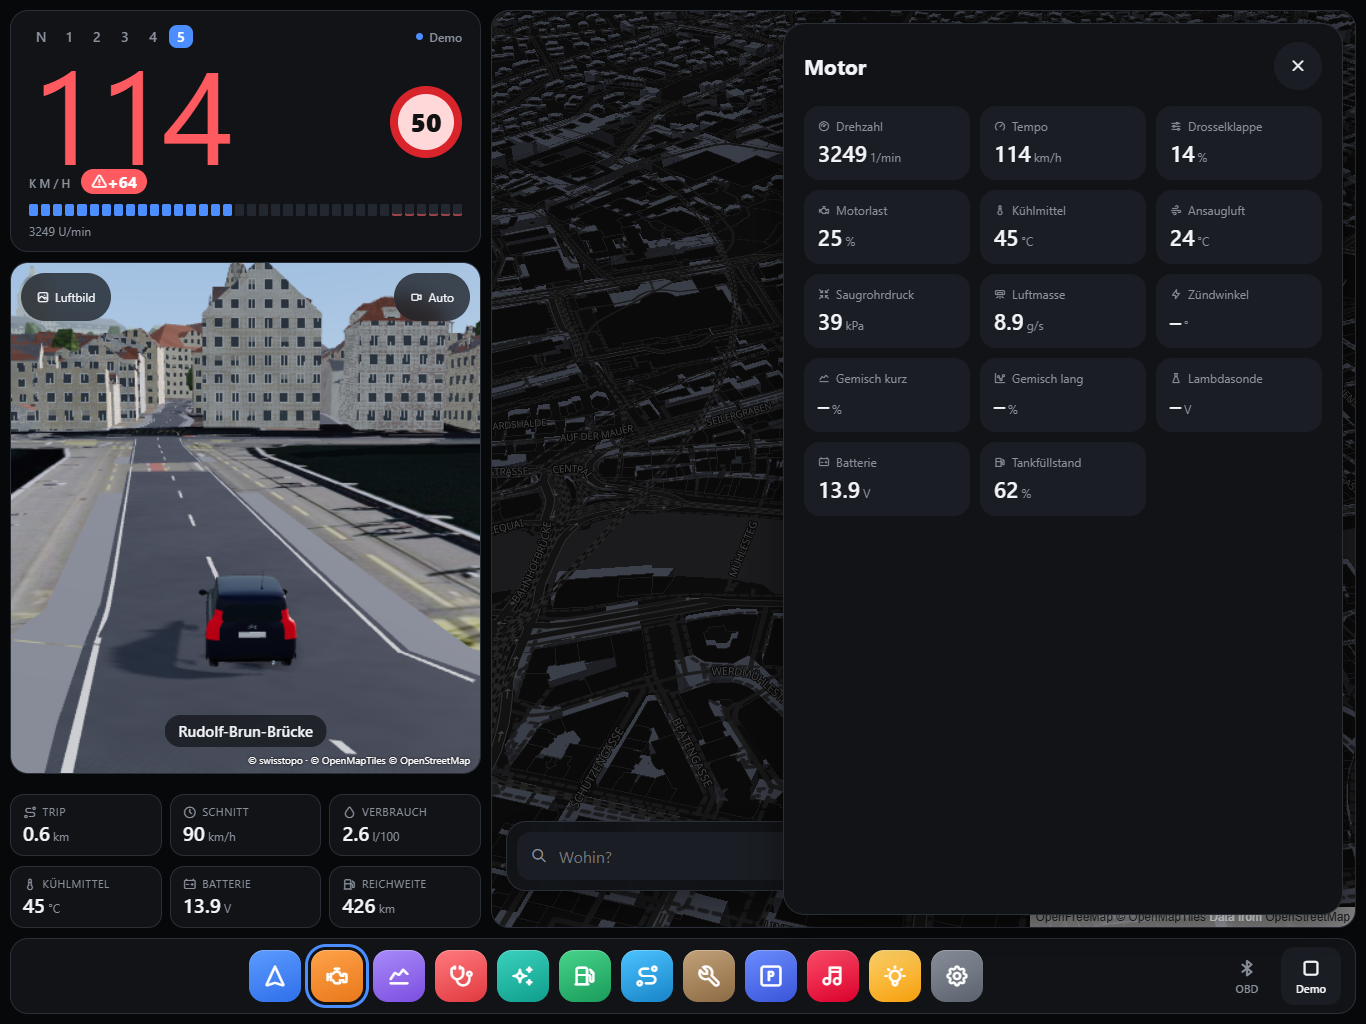
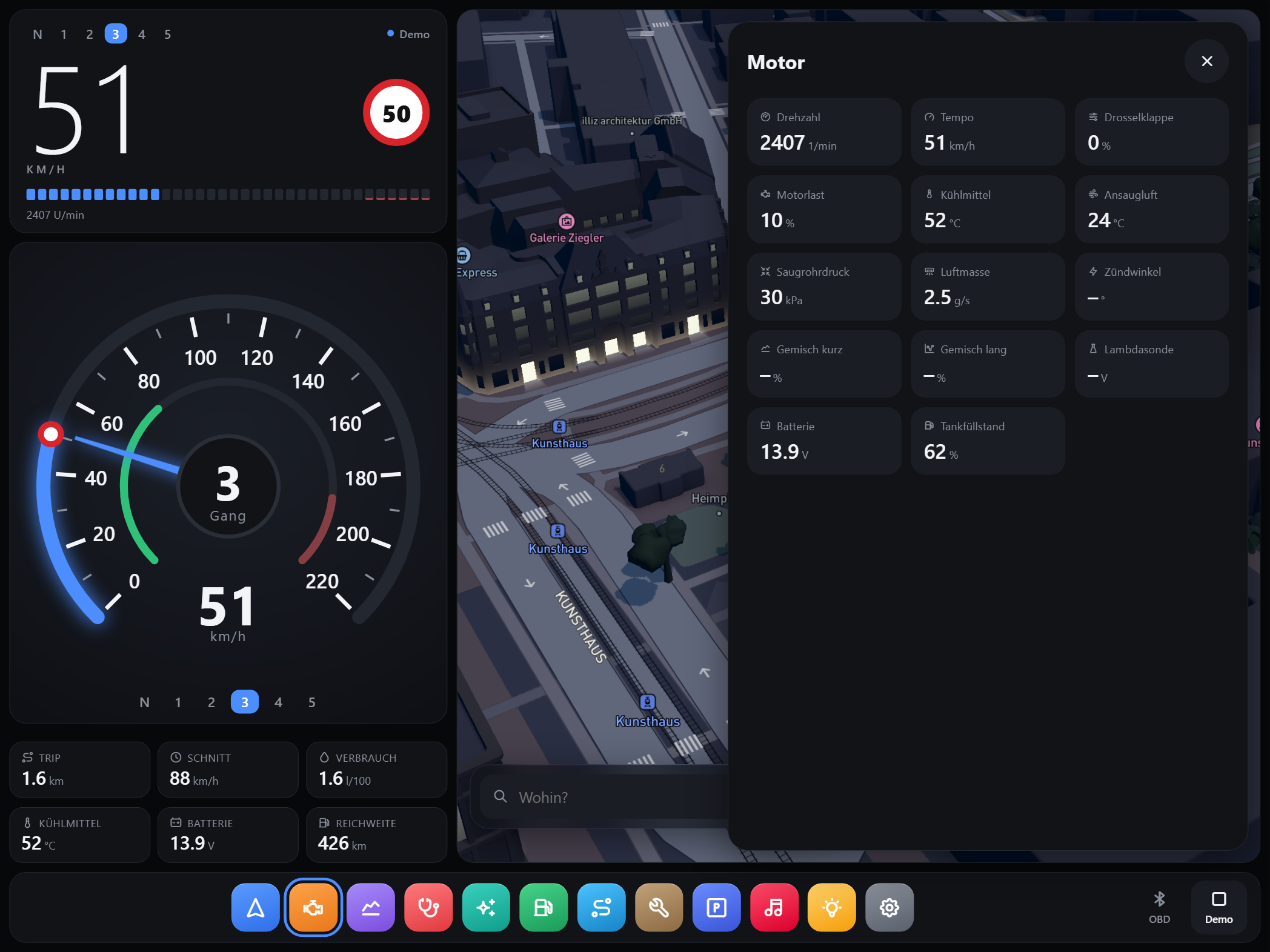
improvements

diff --git a/README.md b/README.md
@@ -11,7 +11,9 @@ Erstes Fahrzeug ist ein Citroën Xsara Picasso von 2005. Die App ist aber für
 jedes Fahrzeug mit OBD2 gebaut: Alles Fahrzeugspezifische steckt in einem
 `VehicleProfile`.
 
-![Cockpit in der Demo-Fahrt: Tempo, Gang, Tempolimit, 3D-Ansicht und Karte](docs/screenshots/cockpit.png)
+**Demo im Browser:** <https://weslleydesouza.github.io/app-CoDriveMate/?demo>
+
+![Cockpit in der Demo-Fahrt: Tempo, Gang, Tempolimit, 3D-Ansicht auf der Mapbox-Karte](docs/screenshots/cockpit.png)
 
 ## Was die App kann
 
@@ -22,7 +24,7 @@ jedes Fahrzeug mit OBD2 gebaut: Alles Fahrzeugspezifische steckt in einem
 | Warnungen | Kühlmittel, Ladespannung, Reichweite, Motorkontrollleuchte: als Karte und als Ansage |
 | Diagnose | Fehlercodes lesen und im Stand löschen, nur lesender Zugriff auf das Fahrzeug |
 | Navigation | Suche, Route, Führung mit Ansagen, Live-Verkehr, Karte und Route auch ohne Netz |
-| 3D-Ansicht | three.js-Modell des Autos in Gelände, Gebäuden und Bäumen von swisstopo |
+| 3D-Ansicht | three.js-Modell des Autos auf der 3D-Karte von Mapbox oder in Gelände, Gebäuden und Bäumen von swisstopo |
 | KI-Copilot | Fragen zum Auto mit Live-Daten, Sprache, Unterhaltungsmodus für die Fahrt |
 | Fahrtenbuch | Fahrten automatisch aufzeichnen, Eco-Punkte, Auswertung nach Tag, Woche, Monat |
 | Innenlicht | Szenen, Zonen, Farben und Effekte über ein ESP32-Modul, gedimmt beim Fahren |
@@ -30,8 +32,10 @@ jedes Fahrzeug mit OBD2 gebaut: Alles Fahrzeugspezifische steckt in einem
 
 | | |
 |---|---|
-| ![Warnung bei zu hoher Kühlmitteltemperatur](docs/screenshots/warning.png) | ![Motorwerte live](docs/screenshots/engine.png) |
-| Fahrzeugwarnung (`?demo&fault=cool`) | Motorwerte live |
+| ![KI-Copilot beantwortet eine Frage zum Motor](docs/screenshots/copilot.png) | ![KI erklärt einen Fehlercode](docs/screenshots/diagnosis-ai.png) |
+| KI-Copilot mit Live-Daten | KI erklärt einen Fehlercode (`?demo&fault=mil`) |
+| ![Warnung bei zu hoher Kühlmitteltemperatur](docs/screenshots/warning.png) | ![Motorwerte live mit rundem Tacho](docs/screenshots/engine.png) |
+| Fahrzeugwarnung (`?demo&fault=cool`) | Motorwerte live, links der runde Tacho |
 | ![Verlauf der Messwerte](docs/screenshots/chart.png) | ![Innenbeleuchtung](docs/screenshots/lighting.png) |
 | Verlauf | Innenbeleuchtung |
 

diff --git a/docs/produkt/portfolio.md b/docs/produkt/portfolio.md
@@ -21,7 +21,7 @@ ein Citroën Xsara Picasso, gebaut ist die App für jedes Fahrzeug.
 | **OBD2 über Bluetooth** | ELM327-Protokoll, serielle Befehle, adaptives Polling, automatisch neu verbinden mit Backoff |
 | **Diagnose** | Fehlercodes lesen und im Stand löschen; die KI erklärt typische Ursachen für das Modell |
 | **Navigation** | Suche mit Sprache, Route mit Live-Verkehr, Ansagen, Wetter entlang der Route, Karten und Routen offline, Route ohne Netz auf dem Gerät gerechnet |
-| **3D-Ansicht** | three.js-Auto in der echten Umgebung: Gelände, Gebäude und Bäume von swisstopo, Himmel nach Tageszeit, Schatten |
+| **3D-Ansicht** | three.js-Auto in der echten Umgebung: auf der 3D-Karte von Mapbox oder in Gelände, Gebäuden und Bäumen von swisstopo, Himmel nach Tageszeit, Schatten |
 | **Fahrtenbuch** | zeichnet automatisch auf, Eco-Score, Monate und Summen, CSV-Export, geplante Fahrten |
 | **Wartung** | Service-Intervalle, MFK, Vignette, Kilometer zählen über OBD mit |
 | **Tank** | Füllstand, Reichweite, Kosten, Tankstellen in der Nähe und auf der Route |
@@ -31,6 +31,10 @@ ein Citroën Xsara Picasso, gebaut ist die App für jedes Fahrzeug.
 | **Unterhaltung** | Begleiter, Fahrtipps, Eco-Coach, Plaudern, Fakten zu Orten an der Strecke (Wikipedia), Quiz |
 
 ![Motorwerte](../screenshots/engine.png)
+
+![KI-Copilot](../screenshots/copilot.png)
+
+![KI erklärt einen Fehlercode](../screenshots/diagnosis-ai.png)
 
 ## Highlight: Geplante Fahrten mit Thema
 
@@ -93,7 +97,6 @@ Schwimmen!»
   Mapbox und Google werden nicht gespeichert.
 
 ![Innenlicht](../screenshots/lighting.png)
-
 
 **Stack:** Angular 22 · TypeScript · Capacitor 8 · three.js · MapLibre / Mapbox ·
 OpenStreetMap / swisstopo · Bluetooth LE / ELM327 · ESP32 · IndexedDB · Vitest ·

diff --git a/docs/README.md b/docs/README.md
@@ -9,7 +9,7 @@ Wer eine Datei dazulegt, trägt sie hier ein.
 | [`konzepte/`](konzepte) | Aufbau und Entscheidungen |
 | [`betrieb/`](betrieb) | Build, Versionen, Release |
 | [`analysen/`](analysen) | Untersuchungen und Faktenchecks |
-| [`screenshots/`](screenshots) | Bilder aus der Demo-Fahrt für das README (1366 × 1024, `?demo`) |
+| [`screenshots/`](screenshots) | Bilder aus der Demo-Fahrt für das README (1270 × 952, 4:3, `?demo`, 3D-Welt Mapbox) |
 
 | Datei | Inhalt |
 |---|---|
